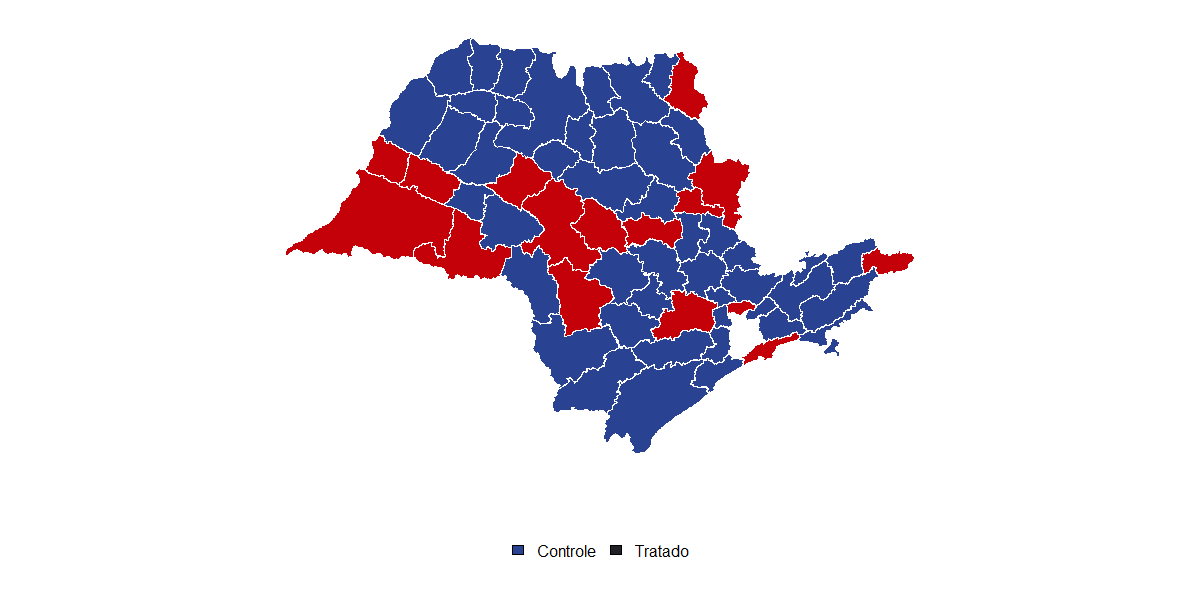
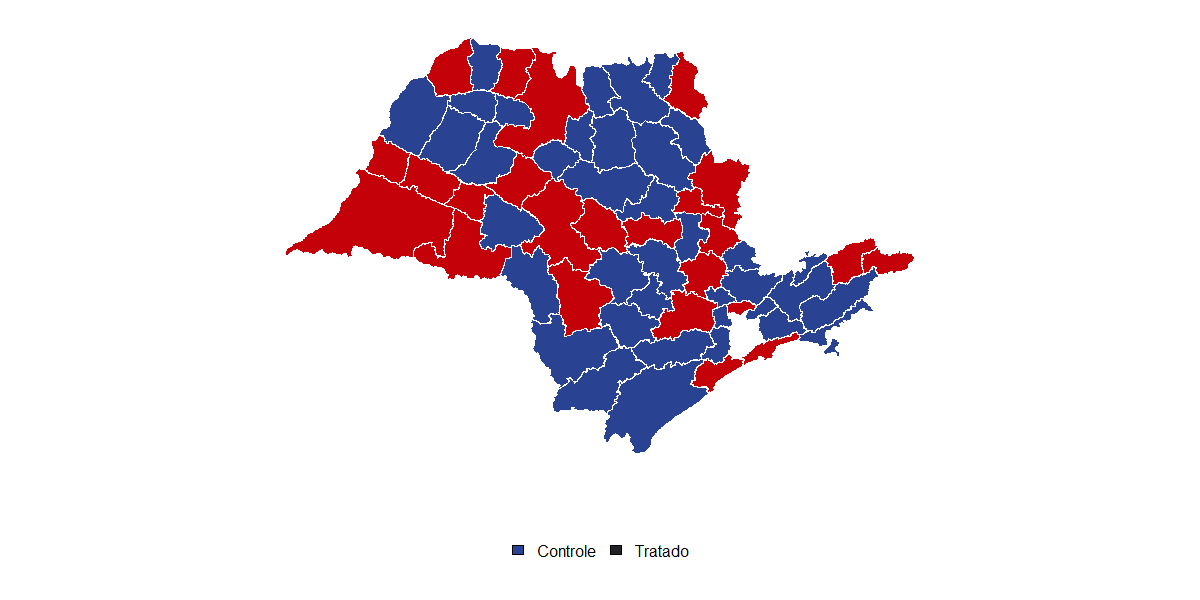
Fixed optimal proportion

diff --git a/Tables/balance_check.tex b/Tables/balance_check.tex
@@ -1,6 +1,6 @@
 
 % Table created by stargazer v.5.2.3 by Marek Hlavac, Social Policy Institute. E-mail: marek.hlavac at gmail.com
-% Date and time: Wed, Apr 30, 2025 - 12:02:45 AM
+% Date and time: Wed, Apr 30, 2025 - 2:21:47 PM
 % Requires LaTeX packages: dcolumn 
 \begin{table}[!htbp] \centering 
   \caption{Tabela de Balanceamento} 
@@ -11,16 +11,16 @@
 \hline \\[-1.8ex] 
 \multicolumn{1}{c}{Variável} & \multicolumn{1}{c}{Média Controle} & \multicolumn{1}{c}{Média Tratado} & \multicolumn{1}{c}{Diferença} & \multicolumn{1}{c}{p-valor} \\ 
 \hline \\[-1.8ex] 
-\multicolumn{1}{c}{População} & \multicolumn{1}{c}{523416.02} & \multicolumn{1}{c}{386598.25} & \multicolumn{1}{c}{-136817.77} & \multicolumn{1}{c}{0.29} \\ 
-\multicolumn{1}{c}{PIB per capita} & \multicolumn{1}{c}{2.93} & \multicolumn{1}{c}{2.34} & \multicolumn{1}{c}{-0.59} & \multicolumn{1}{c}{0.21} \\ 
-\multicolumn{1}{c}{\% Indústria} & \multicolumn{1}{c}{0.53} & \multicolumn{1}{c}{0.52} & \multicolumn{1}{c}{-0.01} & \multicolumn{1}{c}{0.86} \\ 
-\multicolumn{1}{c}{\% Serviços} & \multicolumn{1}{c}{0.29} & \multicolumn{1}{c}{0.32} & \multicolumn{1}{c}{0.03} & \multicolumn{1}{c}{0.45} \\ 
-\multicolumn{1}{c}{\% Desocupação} & \multicolumn{1}{c}{6.19} & \multicolumn{1}{c}{6.14} & \multicolumn{1}{c}{-0.05} & \multicolumn{1}{c}{0.91} \\ 
-\multicolumn{1}{c}{\% PEA} & \multicolumn{1}{c}{0.48} & \multicolumn{1}{c}{0.49} & \multicolumn{1}{c}{0.01} & \multicolumn{1}{c}{0.42} \\ 
-\multicolumn{1}{c}{\% Urbano} & \multicolumn{1}{c}{0.9} & \multicolumn{1}{c}{0.91} & \multicolumn{1}{c}{0.01} & \multicolumn{1}{c}{0.58} \\ 
-\multicolumn{1}{c}{\% PBF} & \multicolumn{1}{c}{0.05} & \multicolumn{1}{c}{0.05} & \multicolumn{1}{c}{0} & \multicolumn{1}{c}{0.65} \\ 
-\multicolumn{1}{c}{Gini} & \multicolumn{1}{c}{0.48} & \multicolumn{1}{c}{0.47} & \multicolumn{1}{c}{-0.01} & \multicolumn{1}{c}{0.12} \\ 
-\multicolumn{1}{c}{N} & \multicolumn{1}{c}{46} & \multicolumn{1}{c}{16} & \multicolumn{1}{c}{} & \multicolumn{1}{c}{} \\ 
+\multicolumn{1}{c}{População} & \multicolumn{1}{c}{491834.84} & \multicolumn{1}{c}{482207.71} & \multicolumn{1}{c}{-9627.13} & \multicolumn{1}{c}{0.95} \\ 
+\multicolumn{1}{c}{PIB per capita} & \multicolumn{1}{c}{2.97} & \multicolumn{1}{c}{2.49} & \multicolumn{1}{c}{-0.48} & \multicolumn{1}{c}{0.35} \\ 
+\multicolumn{1}{c}{\% Indústria} & \multicolumn{1}{c}{0.53} & \multicolumn{1}{c}{0.53} & \multicolumn{1}{c}{-0.01} & \multicolumn{1}{c}{0.85} \\ 
+\multicolumn{1}{c}{\% Serviços} & \multicolumn{1}{c}{0.29} & \multicolumn{1}{c}{0.31} & \multicolumn{1}{c}{0.02} & \multicolumn{1}{c}{0.4} \\ 
+\multicolumn{1}{c}{\% Desocupação} & \multicolumn{1}{c}{6.11} & \multicolumn{1}{c}{6.28} & \multicolumn{1}{c}{0.17} & \multicolumn{1}{c}{0.67} \\ 
+\multicolumn{1}{c}{\% PEA} & \multicolumn{1}{c}{0.48} & \multicolumn{1}{c}{0.48} & \multicolumn{1}{c}{0} & \multicolumn{1}{c}{0.87} \\ 
+\multicolumn{1}{c}{\% Urbano} & \multicolumn{1}{c}{0.89} & \multicolumn{1}{c}{0.92} & \multicolumn{1}{c}{0.03} & \multicolumn{1}{c}{0.23} \\ 
+\multicolumn{1}{c}{\% PBF} & \multicolumn{1}{c}{0.06} & \multicolumn{1}{c}{0.05} & \multicolumn{1}{c}{0} & \multicolumn{1}{c}{0.53} \\ 
+\multicolumn{1}{c}{Gini} & \multicolumn{1}{c}{0.48} & \multicolumn{1}{c}{0.47} & \multicolumn{1}{c}{-0.01} & \multicolumn{1}{c}{0.13} \\ 
+\multicolumn{1}{c}{N} & \multicolumn{1}{c}{38} & \multicolumn{1}{c}{24} & \multicolumn{1}{c}{} & \multicolumn{1}{c}{} \\ 
 \hline \\[-1.8ex] 
 \end{tabular} 
 \end{table} 
